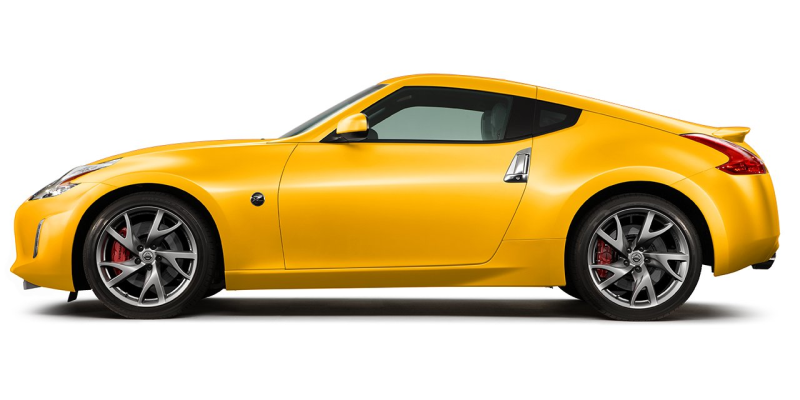
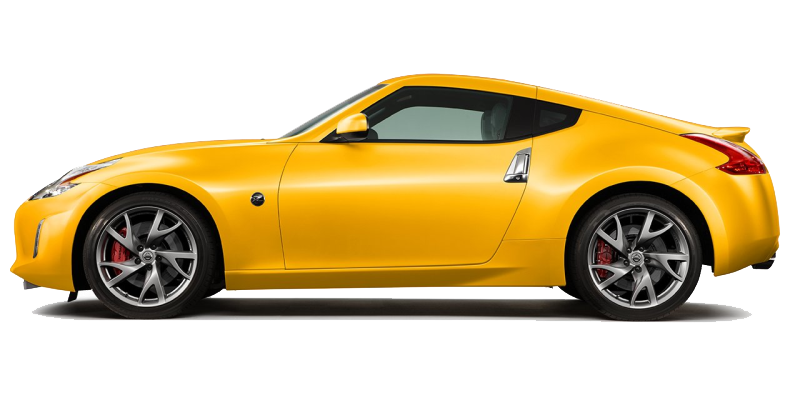
fixing minor issues

diff --git a/public/css/main.css b/public/css/main.css
@@ -70,3 +70,6 @@ h3 {
 body{
 	background-color: #e8e8e8;
 }
+.carousel-inner > .carousel-item > .view > img {
+    margin: 0 auto;
+}

diff --git a/resources/views/inventory.blade.php b/resources/views/inventory.blade.php
@@ -3,27 +3,30 @@
     <div class="card-deck-wrapper">
 		  <div class="card-deck">
             <div class="card">
-            <img class="card-img-top img" src="img/cars/buggati.jpg" alt="No Cars Photos">
+            <img class="card-img-top img" src="img/cars/buggati.png" alt="No Cars Photos">
                 <div class="card-block">
-                    <h4 class="card-title">Card title</h4>
-                    <p class="card-text">This is a longer card with supporting text below as a natural lead-in to additional content. This content is a little bit longer.</p>
-                    <a class="btn btn-primary dbutton" href="deatils.html" role="button">Details</a>
+                    <p class="text-muted text-center">Price: $10,000</p>
+                    <div class="checkbox">
+					  <label><input type="checkbox" value=" "> Select to Compare</label>
+					</div>
                 </div>
             </div>
             <div class="card">
-            <img class="card-img-top img" src="img/cars/buggati.jpg" alt="No Cars Photos">
+            <img class="card-img-top img" src="img/cars/buggati.png" alt="No Cars Photos">
                 <div class="card-block">
-                    <h4 class="card-title">Card title</h4>
-                    <p class="card-text">This card has supporting text below as a natural lead-in to additional content.</p>
-                    <a class="btn btn-primary dbutton" href="deatils.html" role="button">Details</a>
+                    <p class="text-muted text-center">Price: $10,000</p>
+                    <div class="checkbox">
+					  <label><input type="checkbox" value=" "> Select to Compare</label>
+					</div>
                 </div>
             </div>
             <div class="card">
-            <img class="card-img-top img" src="img/cars/buggati.jpg" alt="No Cars Photos">
+            <img class="card-img-top img" src="img/cars/buggati.png" alt="No Cars Photos">
                 <div class="card-block">
-                    <h4 class="card-title">Card title</h4>
-                    <p class="card-text">This is a wider card with supporting text below as a natural lead-in to additional content. This card has even longer content than the first to show that equal height action.</p>
-                    <a class="btn btn-primary" href="deatils.html" role="button">Details</a>
+                    <p class="text-muted text-center">Price: $10,000</p>
+                    <div class="checkbox">
+					  <label><input type="checkbox" value=" "> Select to Compare</label>
+					</div>
                 </div>
             </div>
         </div>
@@ -32,27 +35,30 @@
 	<div class="card-deck-wrapper">
         <div class="card-deck">
             <div class="card">
-            <img class="card-img-top img" src="img/cars/buggati.jpg" alt="No Cars Photos">
+            <img class="card-img-top img" src="img/cars/buggati.png" alt="No Cars Photos">
                 <div class="card-block">
-                    <h4 class="card-title">Card title</h4>
-                    <p class="card-text">This is a longer card with supporting text below as a natural lead-in to additional content. This content is a little bit longer.</p>
-                    <a class="btn btn-primary" href="deatils.html" role="button">Details</a>
+                    <p class="text-muted text-center">Price: $10,000</p>
+                    <div class="checkbox">
+					  <label><input type="checkbox" value=" "> Select to Compare</label>
+					</div>
                 </div>
         	</div>
             <div class="card">
-            <img class="card-img-top img" src="img/cars/buggati.jpg" alt="No Cars Photos">
+            <img class="card-img-top img" src="img/cars/buggati.png" alt="No Cars Photos">
                 <div class="card-block">
-                    <h4 class="card-title">Card title</h4>
-                    <p class="card-text">This card has supporting text below as a natural lead-in to additional content.</p>
-                    <a class="btn btn-primary" href="deatils.html" role="button">Details</a>
+                    <p class="text-muted text-center">Price: $10,000</p>
+                    <div class="checkbox">
+					  <label><input type="checkbox" value=" "> Select to Compare</label>
+					</div>
                 </div>
             </div>
             <div class="card">
-            <img class="card-img-top img" src="img/cars/buggati.jpg" alt="No Cars Photos">
+            <img class="card-img-top img" src="img/cars/buggati.png" alt="No Cars Photos">
                 <div class="card-block">
-                <h4 class="card-title">Card title</h4>
-                <p class="card-text">This is a wider card with supporting text below as a natural lead-in to additional content. This card has even longer content than the first to show that equal height action.</p>
-                <a class="btn btn-primary" href="deatils.html" role="button">Details</a>
+                    <p class="text-muted text-center">Price: $10,000</p>
+                    <div class="checkbox">
+					  <label><input type="checkbox" value=" "> Select to Compare</label>
+					</div>
                 </div>
             </div>
 		</div>

diff --git a/resources/views/home.blade.php b/resources/views/home.blade.php
@@ -1,14 +1,14 @@
 @extends('bootstrap')
 @section('home_slider')
 <!--Carousel Wrapper-->
-<div id="carousel-example-2" class="carousel slide carousel-fade" data-ride="carousel">
+<div id="carousel-example-2" class="carousel slide carousel-fade" data-ride="carousel" style="margin-top:40px;">
     <!--Indicators-->
     <ol class="carousel-indicators">
         <li data-target="#carousel-example-2" data-slide-to="0" class="active"></li>
         <li data-target="#carousel-example-2" data-slide-to="1"></li>
         <li data-target="#carousel-example-2" data-slide-to="2"></li>
-		<li data-target="#carousel-example-2" data-slide-to="3"></li>
-		<li data-target="#carousel-example-2" data-slide-to="4"></li>
+	<li data-target="#carousel-example-2" data-slide-to="3"></li>
+	<li data-target="#carousel-example-2" data-slide-to="4"></li>
     </ol>
     <!--/.Indicators-->
 
@@ -18,14 +18,14 @@
         <div class="carousel-item active">
             <!--Mask color-->
             <div class="view hm-black-slight">
-                <img src="img/cars/americancars.jpg" class="img-fluid" alt="all American">
+                <img src="img/cars/buggati.png" class="img-fluid" alt="all American">
                 <div class="full-bg-img">
                 </div>
             </div>
             <!--Caption-->
             <div class="carousel-caption">
                 <div class="animated fadeInDown">
-                    <h3 class="h3-responsive">All American Brands</h3>
+                    <h3 class="h3-responsive">Exotic cars</h3>
                 </div>
             </div>
             <!--Caption-->
@@ -54,7 +54,7 @@
         <div class="carousel-item">
             <!--Mask color-->
             <div class="view hm-black-slight">
-                <img src="img/cars/buycars.jpg" class="img-fluid" alt="we buy cars">
+                <img src="img/cars/buycars.png" class="img-fluid" alt="we buy cars">
                 <div class="full-bg-img">
                 </div>
             </div>
@@ -124,7 +124,7 @@
 	<div class="card-deck-wrapper">
 		<div class="card-deck">
 			<div class="card">
-			<img class="card-img-top img" src="img/cars/buggati.jpg" alt="No Cars Photos">
+			<img class="card-img-top img" src="img/cars/buggati.png" alt="No Cars Photos">
 				<div class="card-block">
 					<h4 class="card-title">Card title</h4>
 					<p class="card-text">This is a longer card with supporting text below as a natural lead-in to additional content. This content is a little bit longer.</p>
@@ -132,7 +132,7 @@
 				</div>
 			</div>
 			<div class="card">
-			<img class="card-img-top img" src="img/cars/buggati.jpg" alt="No Cars Photos">
+			<img class="card-img-top img" src="img/cars/buggati.png" alt="No Cars Photos">
 				<div class="card-block">
 					<h4 class="card-title">Card title</h4>
 					<p class="card-text">This is a longer card with supporting text below as a natural lead-in to additional content. This content is a little bit longer.</p>
@@ -140,7 +140,7 @@
 				</div>
 			</div>
 			<div class="card">
-			<img class="card-img-top img" src="img/cars/buggati.jpg" alt="No Cars Photos">
+			<img class="card-img-top img" src="img/cars/buggati.png" alt="No Cars Photos">
 				<div class="card-block">
 					<h4 class="card-title">Card title</h4>
 					<p class="card-text">This is a longer card with supporting text below as a natural lead-in to additional content. This content is a little bit longer.</p>

diff --git a/resources/views/sale.blade.php b/resources/views/sale.blade.php
@@ -1,0 +1,44 @@
+@extends('bootstrap')
+@section('page_content')
+<center>
+ 
+  <a href="newsale.html" class="btn btn-danger" role="button"><h3>Begin a Sale</h3></a>
+  
+</center>
+ <div class="container">
+  
+  <table class="table">
+   
+
+    <tbody>
+      <tr class="car1">
+        <td><img src="img/cars/hondacivic.jpg" class="img-rounded" alt="Honda Civic"></td>
+        <td>Car1</td>
+        <td>
+         <a href="continue.html" class="btn btn-info btn-md" role="button">Continue Sale</a>
+        <a href="remove.html" class="btn btn-info btn-md" role="button">Remove Sale</a>
+        </td>
+      </tr>
+      <tr class="car2">
+        <td><img src="img/cars/hondacivic.jpg" class="img-rounded" alt="Honda Civic"></td>
+        <td>Car2</td>
+        <td>
+         <a href="continue.html" class="btn btn-info btn-md" role="button">Continue Sale</a>
+        <a href="remove.html" class="btn btn-info btn-md" role="button">Remove Sale</a>
+        </td>
+
+      </tr>
+      <tr class="car3">
+        <td><img src="img/cars/hondacivic.jpg" class="img-rounded" alt="Honda Civic"></td>
+        <td>Car3</td>
+        <td>
+         <a href="continue.html" class="btn btn-info btn-md" role="button">Continue Sale</a>
+        <a href="remove.html" class="btn btn-info btn-md" role="button">Remove Sale</a>
+        </td>
+
+      </tr>
+    </tbody>
+  </table>
+</div>
+
+@stop

diff --git a/routes/web.php b/routes/web.php
@@ -20,3 +20,4 @@ Route::get('/feedback','PagesController@feedback');
 Route::get('/signin','PagesController@signin');
 Route::get('/signup','PagesController@signup');
 Route::get('/subscribe','PagesController@subscribe');
+Route::get('/sale','PagesController@sale');

diff --git a/app/Http/Controllers/PagesController.php b/app/Http/Controllers/PagesController.php
@@ -35,4 +35,7 @@ class PagesController extends Controller
 	public function contact(){
 		return view('contact');
 	}
+	public function sale(){
+		return view('sale');
+	}
 }
